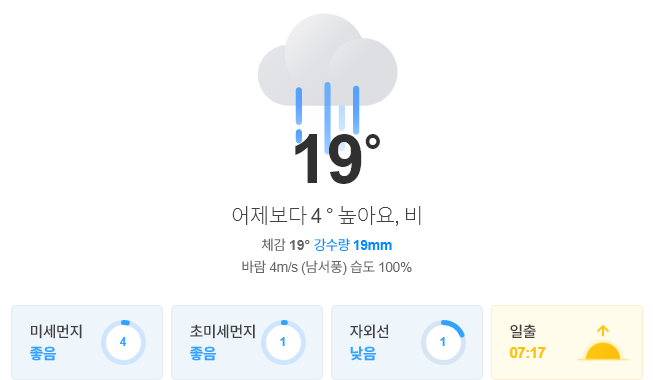
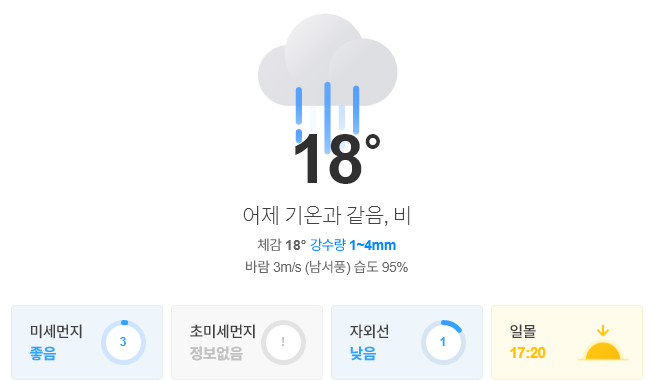
update result

diff --git a/README.md b/README.md
@@ -1,21 +1,21 @@
-##  2020-11-19 05:54:33   목요일 
-##### 날씨   -   어제보다 4 ° 높아요, 비
+##  2020-11-19 09:16:48   목요일 
+##### 날씨   -   어제 기온과 같음, 비
 <center><img src="../img/naver_weather_week.png"></center>
 ----
 ----
 ##### 지수
 <table border="1" bordercolor="blue" align = "center" >
 <tr align = "right" > <td>Item</td><td>Point</td><td>Diff</td><td>Rate</td><td>Buy</td><td>Sell</td><td>...</td>  </tr>
-<tr align = "right" > <td>KOSPI</td><td>2,545.64</td><td>6.49</td><td><font size="3" color="red" >0.26%</font> </td><td><font size="3" color="black">2,000</font></td><td><font size="3" color="black">3,000</font></td><td>0</td>  </tr>
-<tr align = "right" > <td>KOSDAQ</td><td>851.74</td><td>12.27</td><td><font size="3" color="red" >1.46%</font> </td><td><font size="3" color="black">0</font></td><td><font size="3" color="black">0</font></td><td>0</td>  </tr>
+<tr align = "right" > <td>KOSPI</td><td>2,533.61</td><td>-12.03</td><td><font size="3" color="blue" >-0.47%</font> </td><td><font size="3" color="black">2,000</font></td><td><font size="3" color="black">3,000</font></td><td>0</td>  </tr>
+<tr align = "right" > <td>KOSDAQ</td><td>850.0</td><td>-1.74</td><td><font size="3" color="blue" >-0.2%</font> </td><td><font size="3" color="black">0</font></td><td><font size="3" color="black">0</font></td><td>0</td>  </tr>
 </table>
 ----
 ##### 세계
 <table border="1" bordercolor="blue" align = "center" >
 <tr align = "right" > <td>Item</td><td>Point</td><td>Diff</td><td>Rate</td><td>Buy</td><td>Sell</td><td>...</td>  </tr>
-<tr align = "right" > <td>DOW</td><td>29,558.63</td><td>-224.72</td><td><font size="3" color="blue" >-0.75%</font></td><td><font size="3" color="black">0</font></td><td><font size="3" color="black">0</font></td><td>0</td>  </tr>
-<tr align = "right" > <td>NASDAQ</td><td>11,865.17</td><td>-34.17</td><td><font size="3" color="blue" >-0.29%</font></td><td><font size="3" color="black">0</font></td><td><font size="3" color="black">0</font></td><td>0</td>  </tr>
-<tr align = "right" > <td>S&P</td><td>3,581.56</td><td>-27.97</td><td><font size="3" color="blue" >-0.77%</font></td><td><font size="3" color="black">0</font></td><td><font size="3" color="black">0</font></td><td>0</td>  </tr>
+<tr align = "right" > <td>DOW</td><td>29,438.42</td><td>-344.93</td><td><font size="3" color="blue" >-1.16%</font></td><td><font size="3" color="black">0</font></td><td><font size="3" color="black">0</font></td><td>0</td>  </tr>
+<tr align = "right" > <td>NASDAQ</td><td>11,801.6</td><td>-97.74</td><td><font size="3" color="blue" >-0.82%</font></td><td><font size="3" color="black">0</font></td><td><font size="3" color="black">0</font></td><td>0</td>  </tr>
+<tr align = "right" > <td>S&P</td><td>3,567.79</td><td>-41.74</td><td><font size="3" color="blue" >-1.16%</font></td><td><font size="3" color="black">0</font></td><td><font size="3" color="black">0</font></td><td>0</td>  </tr>
 <tr align = "right" > <td>SHANHAI</td><td>3,347.3</td><td>7.41</td><td><font size="3" color="red" >0.22%</font></td><td><font size="3" color="black">0</font></td><td><font size="3" color="black">0</font></td><td>0</td>  </tr>
 <tr align = "right" > <td>INDIA</td><td>44,180.05</td><td>227.34</td><td><font size="3" color="red" >0.52%</font></td><td><font size="3" color="black">0</font></td><td><font size="3" color="black">0</font></td><td>0</td>  </tr>
 </table>
@@ -23,31 +23,31 @@
 ##### 시장
 <table border="1" bordercolor="blue" align = "center" >
 <tr align = "right" > <td>Item</td><td>Price</td><td>Diff</td><td>Rate</td><td>Buy</td><td>Sell</td><td>...</td>  </tr>
-<tr align = "right" > <td>USD</td><td>1,103.0</td><td>-2.5</td><td><font size="3" color="blue">-0.23%</font></td><td><font size="3" color="orangered">1,110</font></td><td><font size="3" color="black">0</font></td><td>0</td>  </tr>
-<tr align = "right" > <td>WTI</td><td>41.65</td><td>0.08</td><td><font size="3" color="red">0.19%</font></td><td><font size="3" color="black">29.0</font></td><td><font size="3" color="black">0</font></td><td>0</td>  </tr>
-<tr align = "right" > <td>GOLD</td><td>1,884.0</td><td>-2.8</td><td><font size="3" color="blue">-0.14%</font></td><td><font size="3" color="black">0</font></td><td><font size="3" color="black">0</font></td><td>0</td>  </tr>
+<tr align = "right" > <td>USD</td><td>1,110.0</td><td>7.3</td><td><font size="3" color="red">0.66%</font></td><td><font size="3" color="black">1,110</font></td><td><font size="3" color="black">0</font></td><td>0</td>  </tr>
+<tr align = "right" > <td>WTI</td><td>42.01</td><td>0.36</td><td><font size="3" color="red">0.86%</font></td><td><font size="3" color="black">29.0</font></td><td><font size="3" color="black">0</font></td><td>0</td>  </tr>
+<tr align = "right" > <td>GOLD</td><td>1,873.0</td><td>-11.2</td><td><font size="3" color="blue">-0.59%</font></td><td><font size="3" color="black">0</font></td><td><font size="3" color="black">0</font></td><td>0</td>  </tr>
 </table>
 ----
 ##### 주가
 <table border="1" bordercolor="blue" align = "center" >
 <tr align = "right" > <td>Item</td><td>Price</td><td>Diff</td><td>Rate</td><td>Purchased</td><td>Sell</td><td>Buy</td>  </tr>
-<tr align = "right" > <td>한국 전력</td><td>21,400</td><td>-250</td><td><font size="3" color="blue">-1.15%</font></td><td>25,720</td><td><font size="3" color="black">30,000</font></td><td><font size="3" color="black">14,000</font></td>  </tr>
-<tr align = "right" > <td>삼성엔지니어.</td><td>13,100</td><td>400</td><td><font size="3" color="red">3.15%</font></td><td>18,935</td><td><font size="3" color="black">20,000</font></td><td><font size="3" color="black">8,000</font></td>  </tr>
-<tr align = "right" > <td>CJ CGV</td><td>21,900</td><td>-100</td><td><font size="3" color="blue">-0.45%</font></td><td>34,895</td><td><font size="3" color="black">36,000</font></td><td><font size="3" color="black">0</font></td>  </tr>
-<tr align = "right" > <td>아모레퍼시픽</td><td>188,000</td><td>3,000</td><td><font size="3" color="red">1.62%</font></td><td>235,350</td><td><font size="3" color="black">240,000</font></td><td><font size="3" color="black">130,000</font></td>  </tr>
-<tr align = "right" > <td>한화</td><td>26,950</td><td>150</td><td><font size="3" color="red">0.56%</font></td><td>25,550</td><td><font size="3" color="black">30,000</font></td><td><font size="3" color="black">20,000</font></td>  </tr>
-<tr align = "right" > <td>NAVER</td><td>281,000</td><td>6,000</td><td><font size="3" color="red">2.18%</font></td><td>147,200</td><td><font size="3" color="black">400,000</font></td><td><font size="3" color="black">150,000</font></td>  </tr>
-<tr align = "right" > <td>LG 화학우</td><td>352,500</td><td>10,500</td><td><font size="3" color="red">3.07%</font></td><td>202,490</td><td><font size="3" color="black">500,000</font></td><td><font size="3" color="black">200,000</font></td>  </tr>
-<tr align = "right" > <td>스튜디오드래.</td><td>80,200</td><td>400</td><td><font size="3" color="red">0.5%</font></td><td>81,243</td><td><font size="3" color="black">100,000</font></td><td><font size="3" color="black">78,000</font></td>  </tr>
-<tr align = "right" > <td>글로벌럭셔리</td><td>13,615</td><td>15</td><td><font size="3" color="red">0.11%</font></td><td>0</td><td><font size="3" color="black">15,000</font></td><td><font size="3" color="black">10,000</font></td>  </tr>
-<tr align = "right" > <td>QV미국IT</td><td>24,445</td><td>-290</td><td><font size="3" color="blue">-1.17%</font></td><td>0</td><td><font size="3" color="black">30,000</font></td><td><font size="3" color="black">20,000</font></td>  </tr>
-<tr align = "right" > <td>호텔 신라</td><td>80,000</td><td>-400</td><td><font size="3" color="blue">-0.5%</font></td><td>72,800</td><td><font size="3" color="black">100,000</font></td><td><font size="3" color="black">70,000</font></td>  </tr>
-<tr align = "right" > <td>S-Oil</td><td>67,200</td><td>600</td><td><font size="3" color="red">0.9%</font></td><td>62,842</td><td><font size="3" color="black">100,000</font></td><td><font size="3" color="black">50,000</font></td>  </tr>
-<tr align = "right" > <td>LG전자</td><td>88,800</td><td>3,800</td><td><font size="3" color="red">4.47%</font></td><td>82,022</td><td><font size="3" color="black">100,000</font></td><td><font size="3" color="black">60,000</font></td>  </tr>
-<tr align = "right" > <td>지역난방공사</td><td>39,400</td><td>-650</td><td><font size="3" color="blue">-1.62%</font></td><td>43,590</td><td><font size="3" color="black">60,000</font></td><td><font size="3" color="black">30,000</font></td>  </tr>
-<tr align = "right" > <td>KOEDX은행</td><td>6,260</td><td>-35</td><td><font size="3" color="blue">-0.56%</font></td><td>5,178</td><td><font size="3" color="black">6,000</font></td><td><font size="3" color="black">4,500</font></td>  </tr>
-<tr align = "right" > <td>삼성 전자우</td><td>58,500</td><td>-500</td><td><font size="3" color="blue">-0.85%</font></td><td>48,250</td><td><font size="3" color="black">56,000</font></td><td><font size="3" color="black">45,000</font></td>  </tr>
-<tr align = "right" > <td>한화에어로스.</td><td>27,050</td><td>-400</td><td><font size="3" color="blue">-1.46%</font></td><td>25,700</td><td><font size="3" color="black">30,000</font></td><td><font size="3" color="black">24,000</font></td>  </tr>
-<tr align = "right" > <td>한국금융지주</td><td>75,500</td><td>-100</td><td><font size="3" color="blue">-0.13%</font></td><td>0</td><td><font size="3" color="black">82,000</font></td><td><font size="3" color="black">60,000</font></td>  </tr>
+<tr align = "right" > <td>한국 전력</td><td>21,100</td><td>-300</td><td><font size="3" color="blue">-1.4%</font></td><td>25,720</td><td><font size="3" color="black">30,000</font></td><td><font size="3" color="black">14,000</font></td>  </tr>
+<tr align = "right" > <td>삼성엔지니어.</td><td>13,050</td><td>-50</td><td><font size="3" color="blue">-0.38%</font></td><td>18,935</td><td><font size="3" color="black">20,000</font></td><td><font size="3" color="black">8,000</font></td>  </tr>
+<tr align = "right" > <td>CJ CGV</td><td>21,600</td><td>-300</td><td><font size="3" color="blue">-1.37%</font></td><td>34,895</td><td><font size="3" color="black">36,000</font></td><td><font size="3" color="black">0</font></td>  </tr>
+<tr align = "right" > <td>아모레퍼시픽</td><td>183,500</td><td>-4,500</td><td><font size="3" color="blue">-2.39%</font></td><td>235,350</td><td><font size="3" color="black">240,000</font></td><td><font size="3" color="black">130,000</font></td>  </tr>
+<tr align = "right" > <td>한화</td><td>26,550</td><td>-400</td><td><font size="3" color="blue">-1.48%</font></td><td>25,550</td><td><font size="3" color="black">30,000</font></td><td><font size="3" color="black">20,000</font></td>  </tr>
+<tr align = "right" > <td>NAVER</td><td>283,000</td><td>2,000</td><td><font size="3" color="red">0.71%</font></td><td>147,200</td><td><font size="3" color="black">400,000</font></td><td><font size="3" color="black">150,000</font></td>  </tr>
+<tr align = "right" > <td>LG 화학우</td><td>356,000</td><td>3,500</td><td><font size="3" color="red">0.99%</font></td><td>202,490</td><td><font size="3" color="black">500,000</font></td><td><font size="3" color="black">200,000</font></td>  </tr>
+<tr align = "right" > <td>스튜디오드래.</td><td>79,700</td><td>-500</td><td><font size="3" color="blue">-0.62%</font></td><td>81,243</td><td><font size="3" color="black">100,000</font></td><td><font size="3" color="black">78,000</font></td>  </tr>
+<tr align = "right" > <td>글로벌럭셔리</td><td>13,950</td><td>335</td><td><font size="3" color="red">2.46%</font></td><td>0</td><td><font size="3" color="black">15,000</font></td><td><font size="3" color="black">10,000</font></td>  </tr>
+<tr align = "right" > <td>QV미국IT</td><td>24,205</td><td>-240</td><td><font size="3" color="blue">-0.98%</font></td><td>0</td><td><font size="3" color="black">30,000</font></td><td><font size="3" color="black">20,000</font></td>  </tr>
+<tr align = "right" > <td>호텔 신라</td><td>78,800</td><td>-1,200</td><td><font size="3" color="blue">-1.5%</font></td><td>72,800</td><td><font size="3" color="black">100,000</font></td><td><font size="3" color="black">70,000</font></td>  </tr>
+<tr align = "right" > <td>S-Oil</td><td>66,000</td><td>-1,200</td><td><font size="3" color="blue">-1.79%</font></td><td>62,842</td><td><font size="3" color="black">100,000</font></td><td><font size="3" color="black">50,000</font></td>  </tr>
+<tr align = "right" > <td>LG전자</td><td>89,100</td><td>300</td><td><font size="3" color="red">0.34%</font></td><td>82,022</td><td><font size="3" color="black">100,000</font></td><td><font size="3" color="black">60,000</font></td>  </tr>
+<tr align = "right" > <td>지역난방공사</td><td>39,200</td><td>-200</td><td><font size="3" color="blue">-0.51%</font></td><td>43,590</td><td><font size="3" color="black">60,000</font></td><td><font size="3" color="black">30,000</font></td>  </tr>
+<tr align = "right" > <td>KOEDX은행</td><td>6,180</td><td>-80</td><td><font size="3" color="blue">-1.28%</font></td><td>5,178</td><td><font size="3" color="black">6,000</font></td><td><font size="3" color="black">4,500</font></td>  </tr>
+<tr align = "right" > <td>삼성 전자우</td><td>57,900</td><td>-600</td><td><font size="3" color="blue">-1.03%</font></td><td>48,250</td><td><font size="3" color="black">56,000</font></td><td><font size="3" color="black">45,000</font></td>  </tr>
+<tr align = "right" > <td>한화에어로스.</td><td>26,750</td><td>-300</td><td><font size="3" color="blue">-1.11%</font></td><td>25,700</td><td><font size="3" color="black">30,000</font></td><td><font size="3" color="black">24,000</font></td>  </tr>
+<tr align = "right" > <td>한국금융지주</td><td>74,100</td><td>-1,400</td><td><font size="3" color="blue">-1.85%</font></td><td>0</td><td><font size="3" color="black">82,000</font></td><td><font size="3" color="black">60,000</font></td>  </tr>
 </table>
 ----
